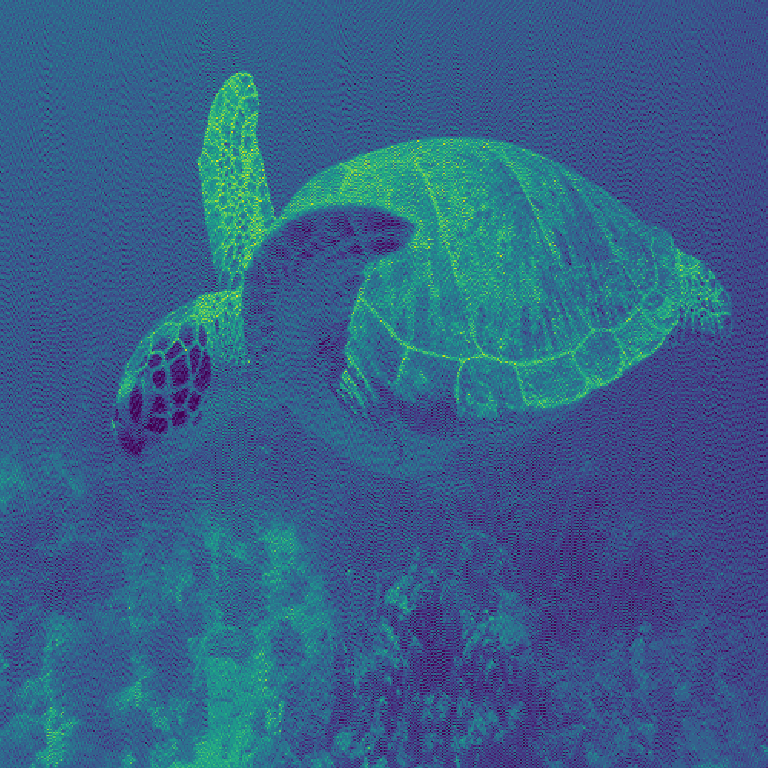
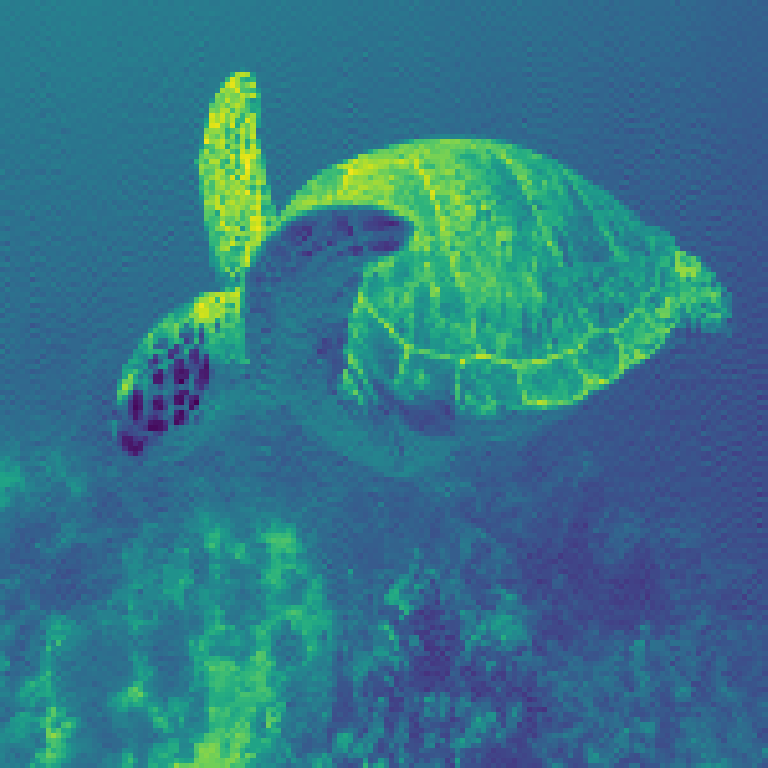
cleanup

diff --git a/imageAnalysis/imageProcessing.py b/imageAnalysis/imageProcessing.py
@@ -11,7 +11,7 @@ from pdf2image import convert_from_path
 # Edit the list of filenames here. Filenames must be 2 characters in length or longer. 
 # Valid extensions are .png , .jpg, .jfif, .jpeg, .tiff
 # Pixel width should be 2.5mm(optimal)-5mm(minimal), to conform to the standards 
-fileNames = ['edit1-20.pdf' , 'edit1-21.pdf' , 'jfif.slacerman.jfif','jpg.blackhole.jpg','png.slac.png','jpeg.seaturtle.jpeg','tiff.lab.tiff','png.test.png']
+fileNames = ['jfif.slacerman.jfif','jpg.blackhole.jpg','png.slac.png','jpeg.seaturtle.jpeg','tiff.lab.tiff','png.test.png']
 
 # A class to hold constant values
 class Measure(object): 
@@ -32,11 +32,11 @@ for x in fileNames:
 # Bins are similar to resolution, too little and the image is pixelated, too many and the image is washed out
 # There are optimization functions for 1D histograms but not 2D.
 numBinsSmall = 200                  # Small Bin 
-numBinsCustom = 250                 # Custom Value 
+numBinsCustom = 150                  # Custom Value 
 numBinsMedium = 500                 # Medium Bin 
 numBinsLarge = 800                  # Large Bin 
 # Edit this to change the Bin count without having to go through every line and change it.
-tBins = numBinsMedium
+tBins = numBinsCustom
 # Edit this to change the number of particles coded into the .yaml file.
 n_particles= 1000000
 dirnameOriginal = dirname + '/Original/'    # directory pointing to the Original file location, 'xta/imageAnalysis/Original/'
@@ -85,10 +85,10 @@ for x in fileNames:
     #40cm-------------------------------------------------------------------------------------------------------
     height = 7.68                                           # Height in inches
     aspect = 1                                              # height/width ratio
-    width = height*aspect
+    width = height * aspect
 
     plt.figure(figsize = (width, height))
-    figg=plt.hist2d(pltx, plty, bins = tBins)                # Change bins here if needed
+    figg=plt.hist2d(pltx, plty, bins = (tBins))                # Change bins here if needed
 
     plt.subplots_adjust(bottom=0, top=1, left=0, right=1)
   
